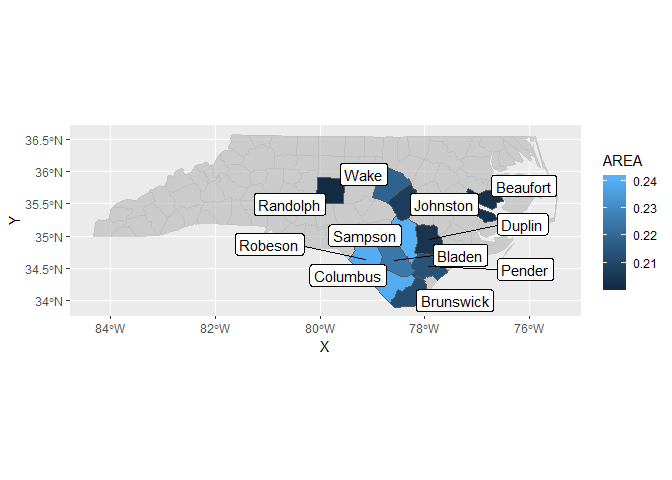
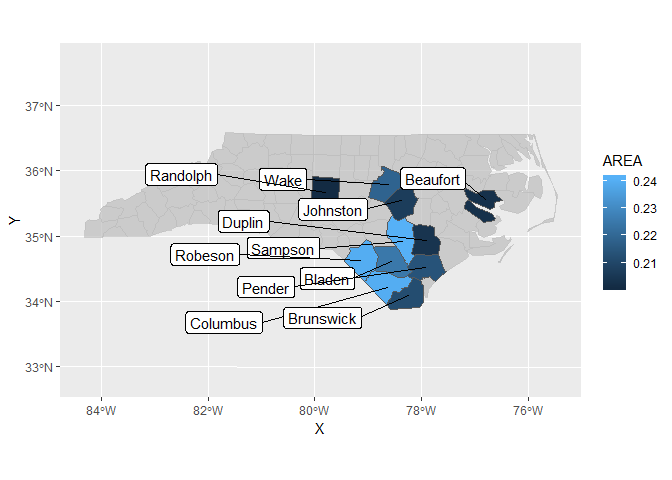
Update README

diff --git a/README.md b/README.md
@@ -29,6 +29,7 @@ nc <- sf::st_read(system.file("shape/nc.shp", package = "sf"), quiet = TRUE)
 ggplot(head(nc, 3)) +
   geom_sf(aes(fill = AREA)) +
   geom_sf_label(aes(label = NAME), seed = 10)
+#> Warning: Ignoring unknown parameters: seed
 #> Warning in st_point_on_surface.sfc(data$geometry): st_point_on_surface may
 #> not give correct results for longitude/latitude data
 ```
@@ -42,7 +43,8 @@ library(gghighlight)
 ggplot(nc) +
   geom_sf(aes(fill = AREA)) +
   gghighlight(AREA > 0.20) +
-  geom_sf_label_repel(aes(label = NAME), seed = 10)
+  geom_sf_label_repel(aes(label = NAME), force = 100, nudge_x = -2, seed = 10) +
+  scale_y_continuous(expand = expand_scale(mult = 0.5))
 #> Warning in st_point_on_surface.sfc(data$geometry): st_point_on_surface may
 #> not give correct results for longitude/latitude data
 ```
